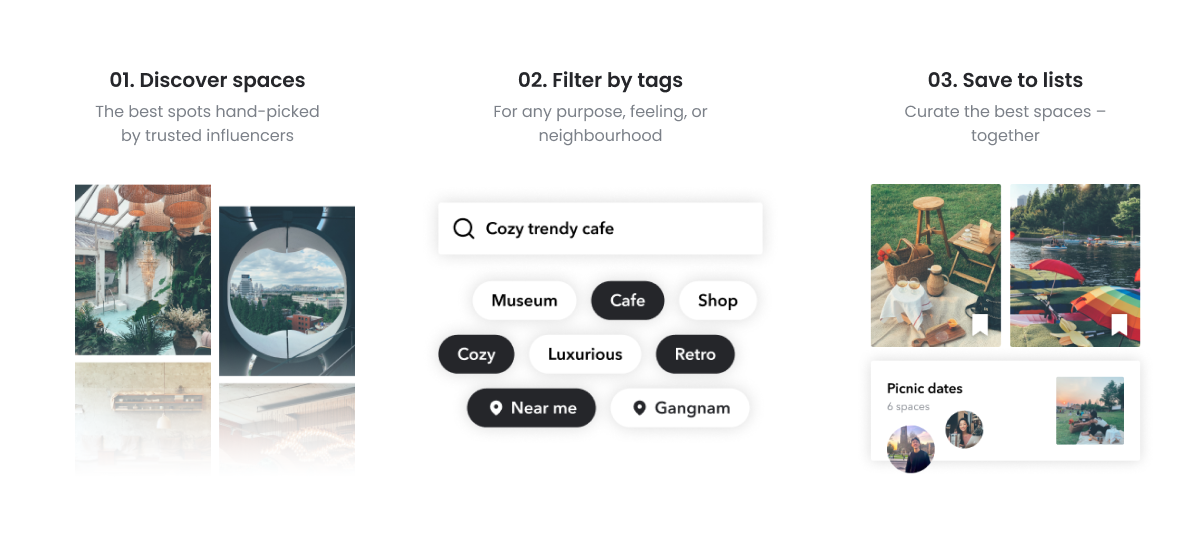
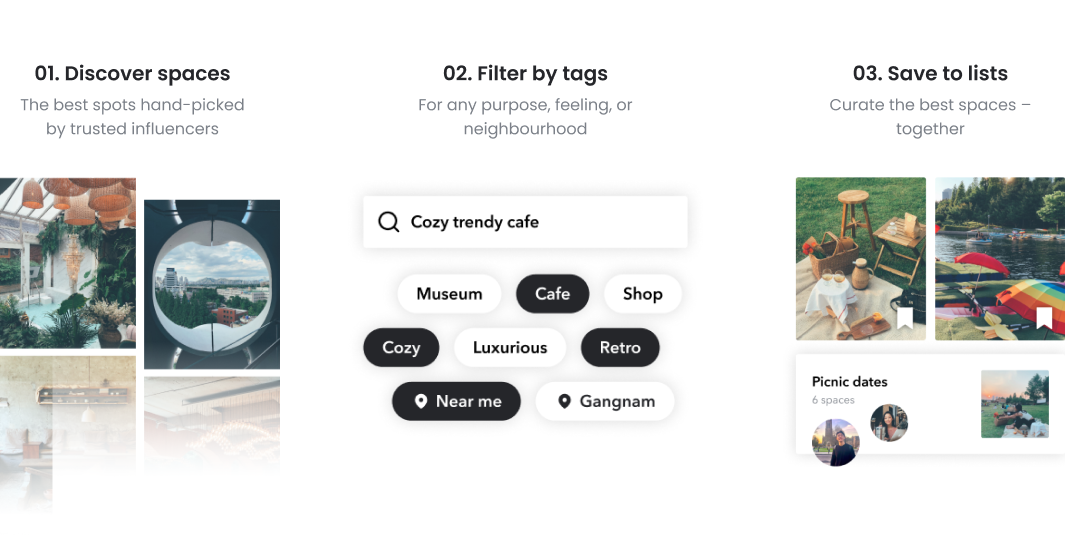
completed insights

diff --git a/daytrip.html b/daytrip.html
@@ -20,6 +20,12 @@
             <h1>
                 Creating a new space-discovery experience (in cities, not outer-space...yet!) 
             </h1>
+            <div class="img-holder">
+                <img src="daytrip/Feature Overview.png">
+
+            </div>
+
+            <br>
 
         </div>
     </section>
@@ -31,43 +37,43 @@
 
 
     <section class="project-wrapper">
-        <div class="row"></div>
+        <div class="row">
             <div class="col-6">
                 <h3> Overview </h3> 
-                <p> The DayTrip app encourages people to explore their cities by using our curator-based space-discovery platform. We launched July 2020 in Seoul. As of October 2020, it has 1000+ downloads, with 300+ WAUs. </p>
+                <p> This is my on-going journey designing a curator-based space-discovery platform. We launched the iOS app July 2020 in Seoul. As of October 2020, it has 1000+ downloads, with 300+ WAUs. </p>
 
             </div>
             <div class="col-6">
                 <h3> My Role </h3> 
-                <p>Joining part-time in May 2020, I led the product design from the ground up. I collaborated with 3 other team members who did product, development, marketing, and user research.  </p>                
+                <p>Joining part-time in May 2020, I led the product design from the ground up. I collaborated with 3 team members who did product, development, marketing, and user research.  </p>                
             </div>
         </div>
     </section>
 
 
     <section class="project-wrapper">
-        <div class="row"></div>
+        <div class="row">
             <div class="col-12">
                 <h3>Background </h3> 
+                <h2> You have a date this Friday night. How do you find a place to go? (In a COVID-free universe...) </h2> 
                 <p>
-                    Think of your favorite spots in town. What was it like when you first found them? Did you wonder "woah, why didn't I find this place sooner?" or "how could this be in [insert city here]?". We dream about exploring other places around the country and world, but how often have we experienced the gems hidden right in front of us? 
-                </p>
-                <p>
-                    Daytrip (born out the <a href="https://www.linkedin.com/company/ourspace/"> OurSpace </a> startup) makes it easy to discover these places. We give select content-curators a platform to share photos and info about the most special spaces in town. Besides the mobile app, DayTrip also maintains <a href="https://www.instagram.com/daytrip_korea/"> this Instagram page </a> to highlight spaces and curators in South Korea. 
+                    Daytrip (born out the <a href="https://www.linkedin.com/company/ourspace/"> OurSpace </a> startup) makes it easy to discover the perfect spots to enjoy with people you care about: partners, friends, family...and yourself! We give select content-curators a platform to share photos and info about the most special spaces in town. Besides the mobile app, DayTrip also maintains <a href="https://www.instagram.com/daytrip_korea/"> this Instagram page </a> to highlight spaces and curators in South Korea. 
                 </p>
 
-                <div class="img-holder">
+                <!-- <div class="img-holder">
                     <img src="daytrip/Feature Overview.png">
-                </div>
+                </div> -->
             </div>
         </div>
     </section>
 
 
+
     <section class="project-wrapper">
-        <div class="row"></div>
+        <div class="row">
             <div class="col-12">
                 <h3>Process </h3> 
+                <h2> Prioritizing customer value for every feature </h2>
                 <p> Startups go fast – even if as a designer I prefer taking my sweet time to understand who I'm designing for, and why. I had to whip out some features in mere days within 1-week sprints. Users and future business value guided the development of every feature, so I also had to prioritize which designs were left at MVP-level and which ones to revisit. </p>
                 <div class="img-holder">
                     <img src="daytrip/FeatureTimeline.png">
@@ -80,37 +86,77 @@
                 </div>
             </div>
         </div>
-        <hr class="solid">
 
     </section>
+
+
+
+    <section class="dark">
+        <section class="project-wrapper">
+            <div class="row">
+                <div class="col-12">
+                    <h3> Insights </h3>
+        
+
+                    <h2> Existing solutions lack in experience and functionality for discovering high-quality physical spaces.  </h2>
+                    <p>
+                       When we first started in May/June, David and Cherlyn did an initial round of interviews with potential users from the DayTrip Instagram. In these interviews, we wanted to understand how people used existing apps to find new places to go. 
+                    </p>
+                
+                    <div class="img-holder">
+                        <img src="daytrip/Problems.png">
+                    </div>
+
+                    <br> 
+                    <h2> Beautiful photos matter – but they're all on Instagram. </h2>
+                    <p>
+                        Initially, we had a few hundred spaces with gorgeous photos taken by Cherlyn (and David). Some had been shared on Instagram, attracting over 2000 followers. Check-out the difference between the same place on Google Maps vs. in photos that were taken with skill & care:
+                    </p>
+                    <br>
+
+                    <div class="img-holder">
+                        <img src="daytrip/PhotoComparison.png">
+                    </div>
+
+                    <p> And there are so many photographers and influencers sharing jaw-dropping photos to Instagram. They promote a lifestyle surrounding the exploration of these beautiful spaces. People love it – the comments are full of followers tagging someone, saying "let's go!".  </p>
+                    <div class="img-holder">
+                        <img src="daytrip/igaccounts.png">
+                    </div>
+
+                    <br>
+                    <br> 
+
+                    <h2> 80,000+ restaurants in Seoul. 40,000+ in Paris. 20,000+ in NYC. </h2>
+                    <p> South Korea's "cafe culture" is really showing here. And that's not even including all the other places like shops, museums, IG-worthy destinations. It is so overwhelming to use services that list all these places. </p>
+
+                    <br> 
+                    <h2> You probably have someone you want to go with. And where do we go next after this food-coma?</h2>
+                    <p> Who's looking for new spots to go the most? The lovebirds. "Where do you want to go?" "Idk." People struggle with coordinating plans and "wish lists" when they are scattered across messages and tags on social media. </p>  
+    
+                    <p> One interviewee also noted how they may go to multiple spots in one outing, but it's a pain to plan out an itinerary or spontaneously find the next destination on-the-go. </p>               
+
+
+                 
+                  
+                </div>
+            </div>
+            
+        </section>
+
+    </section>
+ 
 
     <section class="project-wrapper">
         <div class="row"></div>
             <div class="col-12">
-                <h3>  Discovery </h3> 
-                <p>Based on the DayTrip Instagram followers and David & Cherlyn's notes on conversations with potential users, these are the insights we operated on: </p>
+                <h3>  Design goals </h3> 
+                <h2> Give it the functionality of saving & searching + a whole lot of beauty. It's a brand. It's a vibe. </h2>
+                <p> I value the connection between product design and branding. Insights from the preferences of Daytrip's Instagram followers (majority women in their 20s-30s) shaped the visual design decisions I made for the UI. Especially since the first touch-point for users is our Instagram page, the app had to match the elegant, kinda artsy, but still inviting vibe of the DayTrip account.  </p>
 
-                <h4> Pain-points </h4>
-                <ul>
-                    <li> <strong> Instagram is not suitable for offline exploration </strong> – Saving functionality locations is limited. Workarounds include keeping an album of screenshots and using the note-taking app. There is also not enough info/context about locations.</li>
-                    <li> <strong> Lack of trust in review-based platforms like Yelp </strong> – There are fake reviews everywhere, and comments by strangers are taken with a grain-of-salt. Recommendations by friends and online influencers have the most weight.</li>
-                    <li> <strong> Map services by Google, Naver, Apple, etc. are utility-focused </strong>– There is no inspiration to go to places, and the photos are often unappealing. </li>
-                    <li> <strong> Difficult to explore together </strong> – People look for places to go on dates with partners (or friends/family), but planning is scattered across messages and tagging friends in comments on social media.  </li>
-                    <li> <strong> Too many options </strong> – Seoul had over 80,000 restaurants alone (compared to 30,000 in NYC) in 2018. It is overwhelming to use services that simply list all these places, even with filters. </li>
-                </ul>
+                <p> In order to support our brand, making sure the app gave users the right feeling was my top priority when I approached the MVP design. At least for our first 1000 users, they share the values we promote. </p>
 
-                <br>
-                <h4>Customer insights </h4> 
-                <ul>
-                    <li> <strong> Demographics:  </strong>Young adults in their 20s - 30s (majority female), living in South Korea </li>
-                    <li> <strong> Behaviors: </strong> Frequently go out (cafe-culture is huge) with their partner, friends, or family  </li>
-                    <li> <strong> Likes:  </strong> Aesthetics (for the IG vibe!), lifestyle magazines/blogs/vlogs </li>
-
-                </ul>
-                <p>These insights mainly shaped the visual design decisions I made for the UI.  I value the connection between product design and branding, especially since the first touch-point for users is our Instagram page. It had to match the elegant, kinda artsy, but still inviting vibe of the DayTrip account. In order to support our brand, making sure the app gave users the right feeling was my top priority.  </p>
-               <br>
-                <h4>Use cases </h4> 
-                <p> I didn't formally define personas, but I did design with these use cases in mind: </p>
+                <h2> Designing for 3 scenarios </h2>
+                <p> When I first started designing, I didn't formally create personas since we were still – and still always are – talking to users (and again, #StartupsAreSpeedy). I did start with these use cases in mind: </p>
                 <ul>
                     <li> <strong> Immediate </strong> – "I'm out & about and want to find somewhere to go right now." </li>
                     <li> <strong> Near-future </strong> – "I'm looking for a new place to visit this weekend with my partner or friend." </li>
@@ -141,7 +187,7 @@
 
         <div class="row">
             <div class="col-12">
-                <h3> Design </h3>
+                <h3> Designing the Space Feed </h3>
 
                 <h2> Creating a magazine-like browsing experience </h2>
                 <p> The MVP started with an image-based feed of spaces in the first tab. Spaces are displayed one-at-a-time to emphasize the immersive effect of the photos. However, users felt this feed was too monotonous. We also noticed from analytics that people tended to stay on one tab, so other features weren't being accessed as often. 

diff --git a/index.html b/index.html
@@ -34,7 +34,7 @@
 
               <div class="section-links">
                 <span class="project-link"><a target="_blank"
-                    href="https://drive.google.com/file/d/1tJgig2nrU9PVzstZabNEi_evC7VYeKrQ/view?usp=sharing"> 📄 Resume
+                    href="https://drive.google.com/file/d/107mHMDsfwN24cfR40ZmhZb9rAMw5EeWN/view?usp=sharing"> 📄 Resume
                   </a></span>
                 <span class="project-link"><a target="_blank" href="https://www.linkedin.com/in/mvjiang/"> 👋 Linkedin
                   </a></span>
@@ -101,10 +101,10 @@
         <div class="section-content">
           <div class="row">
             <div class="col-7">
-      
-                <h1>Red Hat Integration Service Registry </h1>
+        
+                <h1>UX Design for the Red Hat Integration Service Registry, an iPaas product </h1>
                 <div class="section-desc">
-                  Initial discovery and concept designs for a new iPaas software used by developer teams. As an interaction design intern, I  also learned about design systems, accessibility, and the wonders of open source.
+                  Initial discovery and concept designs for a new enterprise software used by developer teams. As an interaction design intern, I  also learned about design systems, accessibility, and the wonders of open source.
                 </div>
                 <div class="section-links">
                   <span class="project-link"><a href="redhat.html" data-lity> 📄 Case Study </a></span>

diff --git a/project.css b/project.css
@@ -36,8 +36,8 @@ section{
 }
 
 h1{
-    font-size: 36px !important; 
-    line-height: 48px;
+    font-size: 40px !important; 
+    line-height: 54px;
 }
 
 
@@ -49,12 +49,16 @@ h2{
 
 h3{
     text-transform: uppercase;
-    letter-spacing: 2px;
+    letter-spacing: 1px;
     padding: 0px;
     font-size: 16px;
-    color: #3553B4 !important;
+    color: var(--medium-blue) !important;
 }
 
+h4{
+    font-family: 'Merriweather', serif;
+
+}
 
 ul li {
     margin-bottom: 1em;
@@ -127,4 +131,16 @@ ul li {
 
   a:hover{
       opacity: 0.5;
+  }
+
+  .dark {
+      background-color: var(--dark) !important;
+      color: rgba(255, 255, 255, 0.75) !important;
+      padding-top: 60px;
+      padding-bottom: 30px;
+
+  }
+
+  .dark > strong, .dark h2 {
+      color:#FFF !important;
   }

diff --git a/style.css b/style.css
@@ -1,12 +1,14 @@
 @import url('https://fonts.googleapis.com/css2?family=Poppins:wght@300;600&display=swap');
 @import url('https://fonts.googleapis.com/css2?family=Merriweather:wght@300;400&display=swap');:root{
     --dark: #080D1D;
+    --light-blue: #D1D8EF;
+    --medium-blue: #4361C3;
 }
 
 body{
     font-family: 'Poppins', sans-serif;
     background-color: var(--dark);
-    color: #D1D8EF;
+    color: var(--light-blue);
     width: 100%;
     height: 100%;
     margin: 0;
@@ -95,7 +97,7 @@ h2{
 
 
 .section-desc{
-    opacity: 0.7;
+    opacity: 0.75;
     font-size: 18px;
     line-height: 27px;
 }

diff --git a/redhat.html b/redhat.html
@@ -18,7 +18,7 @@
         <div class="col-12">
 
             <h1>
-                Designing the Red Hat Integration Service Registry, an iPaas product
+               UX Design for the Red Hat Integration Service Registry, an iPaas product
             </h1>
 
         </div>
